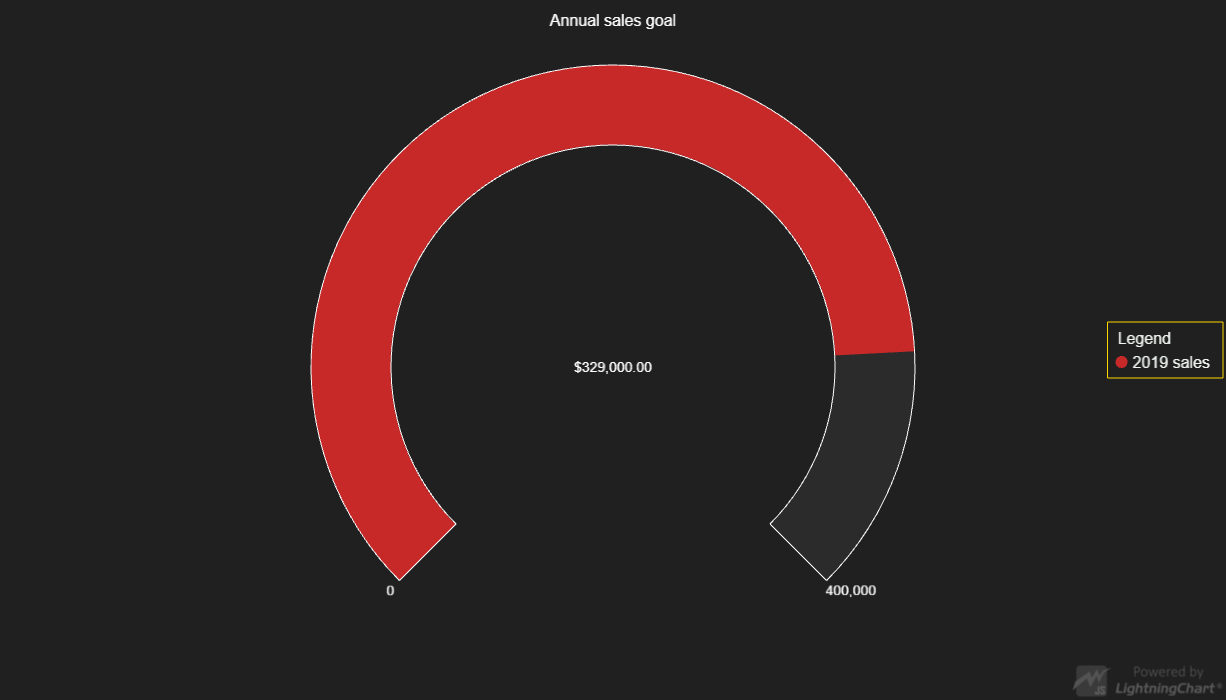
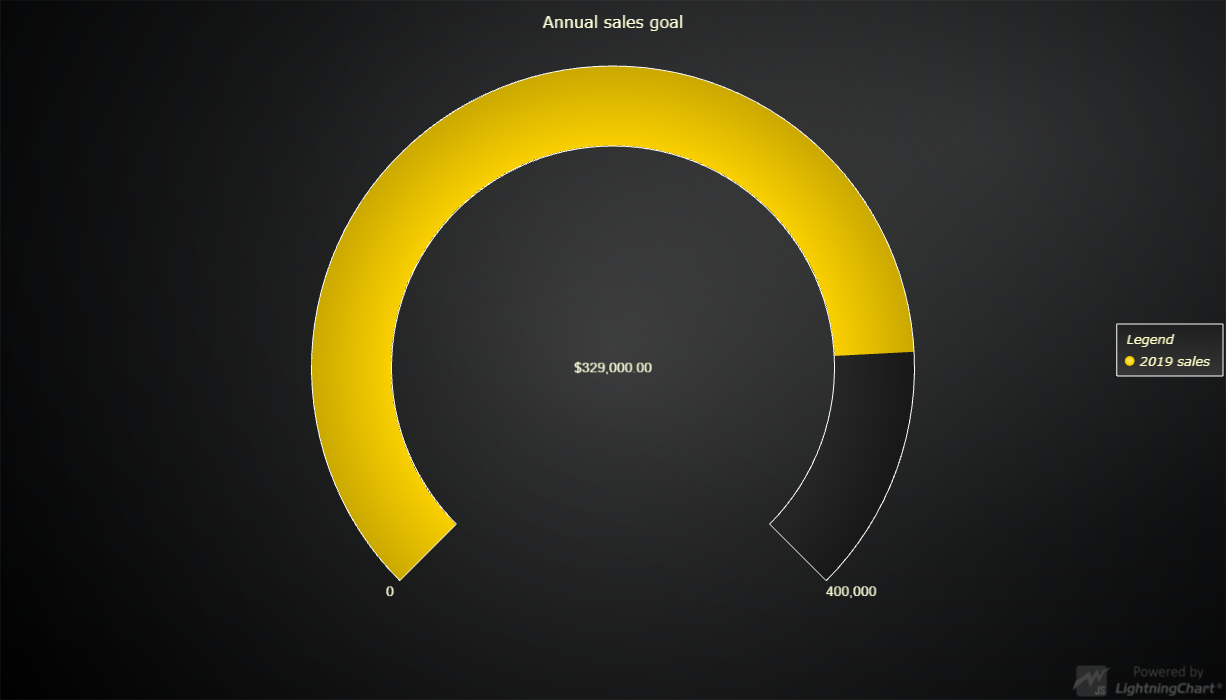
Update LCJS version

diff --git a/src/index.js b/src/index.js
@@ -17,7 +17,7 @@ const {
 
 // Initialize gauge
 const gauge = lightningChart().Gauge({
-    // theme: Themes.dark 
+    // theme: Themes.darkGold 
     type: GaugeChartTypes.Solid
 })
     .setTitle('Annual sales goal')
@@ -36,6 +36,11 @@ const slice = gauge
 
 // Add LegendBox and define the position in the chart
 const legend = gauge.addLegendBox()
+    // Dispose example UI elements automatically if they take too much space. This is to avoid bad UI on mobile / etc. devices.
+    .setAutoDispose({
+        type: 'max-width',
+        maxWidth: 0.30,
+    })
 
 // Add gaugeChart to LegendBox
 legend.add(gauge)

diff --git a/webpack.config.js b/webpack.config.js
@@ -69,7 +69,8 @@ module.exports = {
         }),
         new CopyWebpackPlugin({
             patterns: [
-                { from: './assets/**/*', to: './examples/assets', flatten: true, noErrorOnMissing: true }
+                { from: './assets/**/*', to: './examples/assets', flatten: true, noErrorOnMissing: true },
+                { from: './node_modules/@arction/lcjs/dist/resources', to: 'resources', noErrorOnMissing: true },
             ]
         })
     ]

diff --git a/README.md b/README.md
@@ -72,9 +72,9 @@ Direct developer email support can be purchased through a [Support Plan][4] or b
 © Arction Ltd 2009-2020. All rights reserved.
 
 
-[Gauge chart types]: https://www.arction.com/lightningchart-js-api-documentation/v3.0.1/globals.html#gaugecharttypes
-[RGBA color factory]: https://www.arction.com/lightningchart-js-api-documentation/v3.0.1/globals.html#colorrgba
-[Solid gauge]: https://www.arction.com/lightningchart-js-api-documentation/v3.0.1/classes/solidgauge.html
-[Solid LineStyle]: https://www.arction.com/lightningchart-js-api-documentation/v3.0.1/classes/solidline.html
-[Solid FillStyle]: https://www.arction.com/lightningchart-js-api-documentation/v3.0.1/classes/solidfill.html
+[Gauge chart types]: https://www.arction.com/lightningchart-js-api-documentation/v3.1.0/globals.html#gaugecharttypes
+[RGBA color factory]: https://www.arction.com/lightningchart-js-api-documentation/v3.1.0/globals.html#colorrgba
+[Solid gauge]: https://www.arction.com/lightningchart-js-api-documentation/v3.1.0/classes/solidgauge.html
+[Solid LineStyle]: https://www.arction.com/lightningchart-js-api-documentation/v3.1.0/classes/solidline.html
+[Solid FillStyle]: https://www.arction.com/lightningchart-js-api-documentation/v3.1.0/classes/solidfill.html
 
